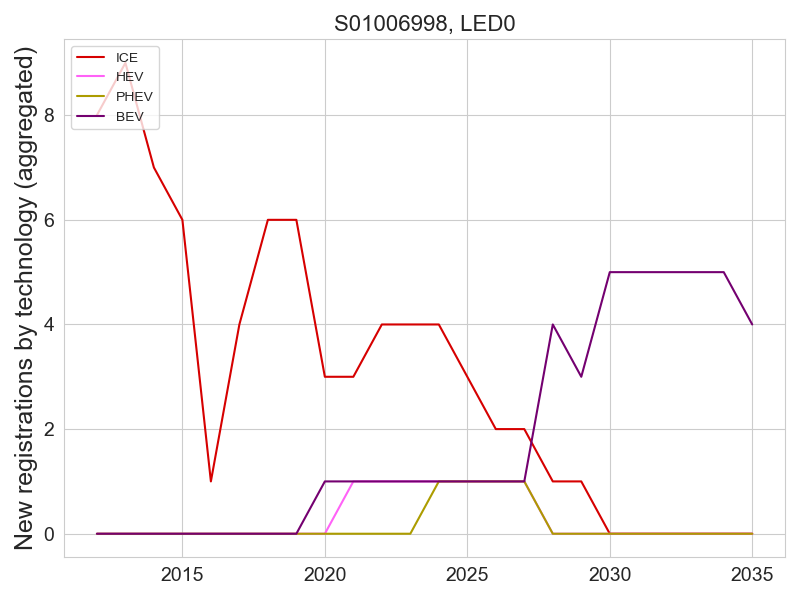
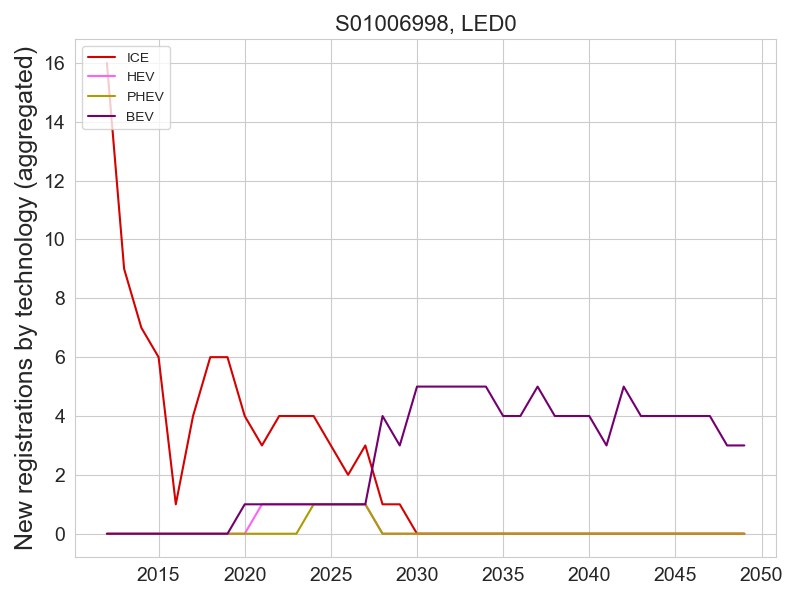
results produced trial1

diff --git a/Segmentation/Segmentation_main_by_year.py b/Segmentation/Segmentation_main_by_year.py
@@ -32,149 +32,152 @@ TotalCars_per_LSOA = Cars_per_LSOA[['GEO_CODE'] + ['TotalCars'+str(y) for y in y
 AgeData, AvgAge_d_lookup = return_agedata()
 
 # Load relevant tables - Cost_Data, Scen_CarSegments, CT_Fuel, Technology
-LED_scenario = 'LED2'
-Cost_Data, Scen_CarSegments, CT_Fuel, Technology = return_tables(LED_scenario, years)
+LED_scenarios = ['LED0', 'LED1', 'LED2']
 
-#######
-#Calibration
-#######
+for LED_scenario in LED_scenarios:
+    #LED_scenario = 'LED2'
+    Cost_Data, Scen_CarSegments, CT_Fuel, Technology = return_tables(LED_scenario, years)
 
-increase_awareness = True
-reduce_supplypenaltyBEV = True
-reduce_supplypenaltyPHEV = True
-reduce_supplypenaltyHEV = True
-reduce_supplypenaltyBEV = True
-increase_supplypenaltyPetrol = True
-increase_supplypenaltyDiesel = True
-increase_accesstoOP = False
-increase_certainty_access = False
-increase_charging_power = False
+    #######
+    #Calibration
+    #######
 
-if increase_awareness:
-    print('Adjusting EV awareness')
-    Scen_CarSegments = change_awareness(Scen_CarSegments, shift_yrs=5, multiplier=1.2)
+    increase_awareness = True
+    reduce_supplypenaltyBEV = True
+    reduce_supplypenaltyPHEV = True
+    reduce_supplypenaltyHEV = True
+    reduce_supplypenaltyBEV = True
+    increase_supplypenaltyPetrol = True
+    increase_supplypenaltyDiesel = True
+    increase_accesstoOP = False
+    increase_certainty_access = False
+    increase_charging_power = False
 
-if reduce_supplypenaltyBEV:
-    print('Adjusting BEV supply penalty')
-    Scen_CarSegments, Cost_Data = change_supply_penalty_BEV(Scen_CarSegments, Cost_Data, Technology, years, shift_yrs=0, multiplier1=1.8, multiplier2=1.6, multiplier3=0.6, multiplier4=-4, y1=8, y2=14, y3=16)
+    if increase_awareness:
+        print('Adjusting EV awareness')
+        Scen_CarSegments = change_awareness(Scen_CarSegments, shift_yrs=5, multiplier=1.2)
 
-if reduce_supplypenaltyPHEV:
-    print('Adjusting PHEV supply penalty')
-    Scen_CarSegments, Cost_Data = change_supply_penalty_PHEV(Scen_CarSegments, Cost_Data, Technology, years, shift_yrs=0, multiplier1=1, multiplier2=0.3, multiplier3=0.2, y1=5, y2=12, phase_out_date=2035)
+    if reduce_supplypenaltyBEV:
+        print('Adjusting BEV supply penalty')
+        Scen_CarSegments, Cost_Data = change_supply_penalty_BEV(Scen_CarSegments, Cost_Data, Technology, years, shift_yrs=0, multiplier1=1.8, multiplier2=1.6, multiplier3=0.6, multiplier4=-4, y1=8, y2=14, y3=16)
 
-if reduce_supplypenaltyHEV:
-    print('Adjusting HEV supply penalty')
-    Scen_CarSegments, Cost_Data = change_supply_penalty_HEV(Scen_CarSegments, Cost_Data, Technology, years, shift_yrs=0, multiplier1=2, multiplier2=1.8, multiplier3=2, y1=6, y2=11, phase_out_date=2030)
+    if reduce_supplypenaltyPHEV:
+        print('Adjusting PHEV supply penalty')
+        Scen_CarSegments, Cost_Data = change_supply_penalty_PHEV(Scen_CarSegments, Cost_Data, Technology, years, shift_yrs=0, multiplier1=1, multiplier2=0.3, multiplier3=0.2, y1=5, y2=12, phase_out_date=2035)
 
-if increase_supplypenaltyPetrol:
-    print('Adjusting Petrol supply penalty')
-    Scen_CarSegments, Cost_Data = change_supply_penalty_Petrol(Scen_CarSegments, Cost_Data, Technology, years, shift_yrs=0, multiplier1=0.4, multiplier2=1.2, multiplier3=2.5, y1=10, y2=13, phase_out_date=2030)
+    if reduce_supplypenaltyHEV:
+        print('Adjusting HEV supply penalty')
+        Scen_CarSegments, Cost_Data = change_supply_penalty_HEV(Scen_CarSegments, Cost_Data, Technology, years, shift_yrs=0, multiplier1=2, multiplier2=1.8, multiplier3=2, y1=6, y2=11, phase_out_date=2030)
 
-if increase_supplypenaltyDiesel:
-    print('Adjusting Diesel supply penalty')
-    Scen_CarSegments, Cost_Data = change_supply_penalty_Diesel(Scen_CarSegments, Cost_Data, Technology, years, shift_yrs=0, multiplier1=0.5, multiplier2=1.2, multiplier3=2.5, y1=9, y2=14, phase_out_date=2030)
+    if increase_supplypenaltyPetrol:
+        print('Adjusting Petrol supply penalty')
+        Scen_CarSegments, Cost_Data = change_supply_penalty_Petrol(Scen_CarSegments, Cost_Data, Technology, years, shift_yrs=0, multiplier1=0.4, multiplier2=1.2, multiplier3=2.5, y1=10, y2=13, phase_out_date=2030)
 
-if increase_accesstoOP:
-    print('Adjusting access to overnight parking (private vehicles)')
-    Scen_CarSegments = change_access_to_OP(Scen_CarSegments, limit=1)
+    if increase_supplypenaltyDiesel:
+        print('Adjusting Diesel supply penalty')
+        Scen_CarSegments, Cost_Data = change_supply_penalty_Diesel(Scen_CarSegments, Cost_Data, Technology, years, shift_yrs=0, multiplier1=0.5, multiplier2=1.2, multiplier3=2.5, y1=9, y2=14, phase_out_date=2030)
 
-if increase_certainty_access:
-    print('Adjusting certainty of access to overnight parking (fleet vehicles)')
-    Scen_CarSegments = change_certainty_of_access(Scen_CarSegments, shift_yrs=5, multiplier=1.2)
+    if increase_accesstoOP:
+        print('Adjusting access to overnight parking (private vehicles)')
+        Scen_CarSegments = change_access_to_OP(Scen_CarSegments, limit=1)
 
-if increase_charging_power:
-    print('Adjusting BEV charging power')
-    Scen_CarSegments, Cost_Data = change_BEVChargingPower(Scen_CarSegments, Cost_Data, shift_yrs=5, multiplier=2)
+    if increase_certainty_access:
+        print('Adjusting certainty of access to overnight parking (fleet vehicles)')
+        Scen_CarSegments = change_certainty_of_access(Scen_CarSegments, shift_yrs=5, multiplier=1.2)
 
-Options = {'increase_awareness':increase_awareness, 'reduce_supplypenaltyBEV':reduce_supplypenaltyBEV,
-           'reduce_supplypenaltyPHEV':reduce_supplypenaltyPHEV, 'reduce_supplypenaltyHEV':reduce_supplypenaltyHEV,
-           'increase_supplypenaltyPetrol':increase_supplypenaltyPetrol, 'increase_supplypenaltyDiesel':increase_supplypenaltyDiesel,
-           'increase_certainty_access':increase_certainty_access, 'increase_charging_power':increase_charging_power}
+    if increase_charging_power:
+        print('Adjusting BEV charging power')
+        Scen_CarSegments, Cost_Data = change_BEVChargingPower(Scen_CarSegments, Cost_Data, shift_yrs=5, multiplier=2)
 
-#plot calibration?
-plot_calibration = False
-if plot_calibration:
-    plot_calibration_variables(Scen_CarSegments, random.sample(LSOAs, 1)[0], Options)
+    Options = {'increase_awareness':increase_awareness, 'reduce_supplypenaltyBEV':reduce_supplypenaltyBEV,
+               'reduce_supplypenaltyPHEV':reduce_supplypenaltyPHEV, 'reduce_supplypenaltyHEV':reduce_supplypenaltyHEV,
+               'increase_supplypenaltyPetrol':increase_supplypenaltyPetrol, 'increase_supplypenaltyDiesel':increase_supplypenaltyDiesel,
+               'increase_certainty_access':increase_certainty_access, 'increase_charging_power':increase_charging_power}
 
-# Add columns for indiviuals who are not aware of EV incentives, without charging access
-Scen_CarSegments['shNotAwareEV'] = 1 - Scen_CarSegments['shAwareEV']
-Scen_CarSegments['shPNoAccessToOC'] = 1 - Scen_CarSegments['shPAccessToOC']
-Scen_CarSegments['shFNoCertaintyOfAccess'] = 1 - Scen_CarSegments['shFCertaintyOfAccess']
+    #plot calibration?
+    plot_calibration = False
+    if plot_calibration:
+        plot_calibration_variables(Scen_CarSegments, random.sample(LSOAs, 1)[0], Options)
 
-# Define new dataframes for Utility/MarketSh, SumNewCars/MarketShTotal, NewCars
-SumNewCars = pd.DataFrame(columns=['Year', 'Private_Fleet', 'Size', 'Consumer', 'Charging_Access', 'SumNewCars'])
-MarketShare = pd.DataFrame(columns=['TechID', 'Year', 'Size', 'Private_Fleet', 'Consumer', 'Utility', 'MarketShare'])
-NewCars = pd.DataFrame(
-    columns=['LSOA', 'Year', 'TechID', 'Private_Fleet', 'Size', 'Consumer', 'Charging_Access', 'NewCars'])
+    # Add columns for indiviuals who are not aware of EV incentives, without charging access
+    Scen_CarSegments['shNotAwareEV'] = 1 - Scen_CarSegments['shAwareEV']
+    Scen_CarSegments['shPNoAccessToOC'] = 1 - Scen_CarSegments['shPAccessToOC']
+    Scen_CarSegments['shFNoCertaintyOfAccess'] = 1 - Scen_CarSegments['shFCertaintyOfAccess']
 
-#Instantiate a NEW dataframe, TotalCars, that *TRACKS* the evolution of the vehicle fleet
-TotalCars = pd.DataFrame(
-    columns=['LSOA', 'Year', 'TechID', 'Private_Fleet', 'Size', 'Consumer', 'Charging_Access'] + [
-        'TotalCars_AGE' + str(a) for a in range(22)] + ['ScrappedCars_AGE' + str(a) for a in range(22)])
+    # Define new dataframes for Utility/MarketSh, SumNewCars/MarketShTotal, NewCars
+    SumNewCars = pd.DataFrame(columns=['Year', 'Private_Fleet', 'Size', 'Consumer', 'Charging_Access', 'SumNewCars'])
+    MarketShare = pd.DataFrame(columns=['TechID', 'Year', 'Size', 'Private_Fleet', 'Consumer', 'Utility', 'MarketShare'])
+    NewCars = pd.DataFrame(
+        columns=['LSOA', 'Year', 'TechID', 'Private_Fleet', 'Size', 'Consumer', 'Charging_Access', 'NewCars'])
 
-MarketShare_Totals = pd.DataFrame(columns=['LSOA', 'Year', 'FuelID', 'Fuel', 'HybridFlag', 'Hybrid', 'MarketShare'])
+    #Instantiate a NEW dataframe, TotalCars, that *TRACKS* the evolution of the vehicle fleet
+    TotalCars = pd.DataFrame(
+        columns=['LSOA', 'Year', 'TechID', 'Private_Fleet', 'Size', 'Consumer', 'Charging_Access'] + [
+            'TotalCars_AGE' + str(a) for a in range(22)] + ['ScrappedCars_AGE' + str(a) for a in range(22)])
 
-# Set possible configurations -- Private/Fleet, Size, Consumer, Charging_Access
-Private_Fleet_Options = ['Private', 'Fleet']
-Consumer_Segments = [['Enthusiast', 'Aspirer', 'Mass', 'Resistor'], ['UserChooser', 'FleetCar']]
-Sizes = [1, 2, 3]
-Charging_Access_Levels = [0, 1,
-                          2]  # not aware of EV incentives, aware and access to charging, aware but no access to charging
+    MarketShare_Totals = pd.DataFrame(columns=['LSOA', 'Year', 'FuelID', 'Fuel', 'HybridFlag', 'Hybrid', 'MarketShare'])
 
-# Start timer
-segstart = time.time()
+    # Set possible configurations -- Private/Fleet, Size, Consumer, Charging_Access
+    Private_Fleet_Options = ['Private', 'Fleet']
+    Consumer_Segments = [['Enthusiast', 'Aspirer', 'Mass', 'Resistor'], ['UserChooser', 'FleetCar']]
+    Sizes = [1, 2, 3]
+    Charging_Access_Levels = [0, 1,
+                              2]  # not aware of EV incentives, aware and access to charging, aware but no access to charging
 
-LSOA = 'S01006998' #this one is Aberdeen A52 6HJ (Connor's network)
+    # Start timer
+    segstart = time.time()
 
-#SumNew is calculated ONCE for all years.
-SumNew = return_SumNew(NewCars_per_LSOA, LSOA)
+    LSOA = 'S01006998' #this one is Aberdeen A52 6HJ (Connor's network)
 
-count = 0
+    #SumNew is calculated ONCE for all years.
+    SumNew = return_SumNew(NewCars_per_LSOA, LSOA)
 
-for year in years:
-    st_year = time.time()
-    #if year is first year, then calculate data for base year (default = 2011)
-    if years.index(year) == 0:
-        SumNewCars = return_SumNewCars(year, SumNewCars, LSOA, SumNew[SumNew.Year == year].TotalCars.item(),
-                                       Scen_CarSegments, Private_Fleet_Options, Consumer_Segments, Sizes,
-                                       Charging_Access_Levels)
+    count = 0
 
-        MarketShare = return_MarketShare(year, years, MarketShare, Technology, Cost_Data, Private_Fleet_Options,
-                                         Consumer_Segments, NewCars, Scen_CarSegments)
+    for year in years:
+        st_year = time.time()
+        #if year is first year, then calculate data for base year (default = 2011)
+        if years.index(year) == 0:
+            SumNewCars = return_SumNewCars(year, SumNewCars, LSOA, SumNew[SumNew.Year == year].TotalCars.item(),
+                                           Scen_CarSegments, Private_Fleet_Options, Consumer_Segments, Sizes,
+                                           Charging_Access_Levels)
 
-        SumNewCars = return_MarketShTot(year, SumNewCars, MarketShare, Technology)
+            MarketShare = return_MarketShare(year, years, MarketShare, Technology, Cost_Data, Private_Fleet_Options,
+                                             Consumer_Segments, NewCars, Scen_CarSegments)
 
-        NewCars = return_NewCars(year, LSOA, NewCars, SumNewCars, MarketShare, Technology, Consumer_Segments,
-                                 Private_Fleet_Options, Charging_Access_Levels)
+            SumNewCars = return_MarketShTot(year, SumNewCars, MarketShare, Technology)
 
-        TotalCars = return_TotalCars_base_year(years, LSOA, AgeData, NewCars, TotalCars)
+            NewCars = return_NewCars(year, LSOA, NewCars, SumNewCars, MarketShare, Technology, Consumer_Segments,
+                                     Private_Fleet_Options, Charging_Access_Levels)
+
+            TotalCars = return_TotalCars_base_year(years, LSOA, AgeData, NewCars, TotalCars)
+
+            MarketShare_Total = return_MarketShare_Totals(year, LSOA, MarketShare, MarketShare_Totals, Technology)
+
+            # clear data to avoid duplicates
+            SumNewCars = SumNewCars.iloc[0:0]
+            MarketShare = MarketShare.iloc[0:0]
+            NewCars = NewCars.iloc[0:0]
+
+        TotalCars = return_TotalCars(year, years, LSOA, TotalCars, NewCars, SumNewCars, AgeData, MarketShare,
+                                     AvgAge_d_lookup, Cars_per_LSOA, Technology, Cost_Data, Scen_CarSegments,
+                                     Consumer_Segments, Sizes, Private_Fleet_Options, Charging_Access_Levels)
 
         MarketShare_Total = return_MarketShare_Totals(year, LSOA, MarketShare, MarketShare_Totals, Technology)
 
-        # clear data to avoid duplicates
-        SumNewCars = SumNewCars.iloc[0:0]
-        MarketShare = MarketShare.iloc[0:0]
-        NewCars = NewCars.iloc[0:0]
+        print(f"YEAR TIME, {year}: {time.time()-st_year} sec")
 
-    TotalCars = return_TotalCars(year, years, LSOA, TotalCars, NewCars, SumNewCars, AgeData, MarketShare,
-                                 AvgAge_d_lookup, Cars_per_LSOA, Technology, Cost_Data, Scen_CarSegments,
-                                 Consumer_Segments, Sizes, Private_Fleet_Options, Charging_Access_Levels)
+    print(f"Overall time: {time.time()-segstart} sec")
 
-    MarketShare_Total = return_MarketShare_Totals(year, LSOA, MarketShare, MarketShare_Totals, Technology)
+    #plot here.
+    plot_Fleet_Evolution = True
+    if plot_Fleet_Evolution:
+        BEV_Share, HEV_Share, PHEV_Share, ICE_Share = return_BEV_share(years, TotalCars, Technology)
+        plot_BEV_share(years, LED_scenario, BEV_Share, HEV_Share, PHEV_Share, ICE_Share)
 
-    print(f"YEAR TIME, {year}: {time.time()-st_year} sec")
-
-print(f"Overall time: {time.time()-segstart} sec")
-
-#plot here.
-plot_Fleet_Evolution = True
-if plot_Fleet_Evolution:
-    BEV_Share, HEV_Share, PHEV_Share, ICE_Share = return_BEV_share(years, TotalCars, Technology)
-    plot_BEV_share(years, LED_scenario, BEV_Share, HEV_Share, PHEV_Share, ICE_Share)
-
-plot_MarketShare_Total_Aggregated = True
-if plot_MarketShare_Total_Aggregated:
-    plot_MS_Total_Aggregated(LSOA, SumNew, MarketShare_Total, years, LED_scenario, proportional=False)
+    plot_MarketShare_Total_Aggregated = True
+    if plot_MarketShare_Total_Aggregated:
+        plot_MS_Total_Aggregated(LSOA, SumNew, MarketShare_Total, years, LED_scenario, proportional=False)
 
 
 
